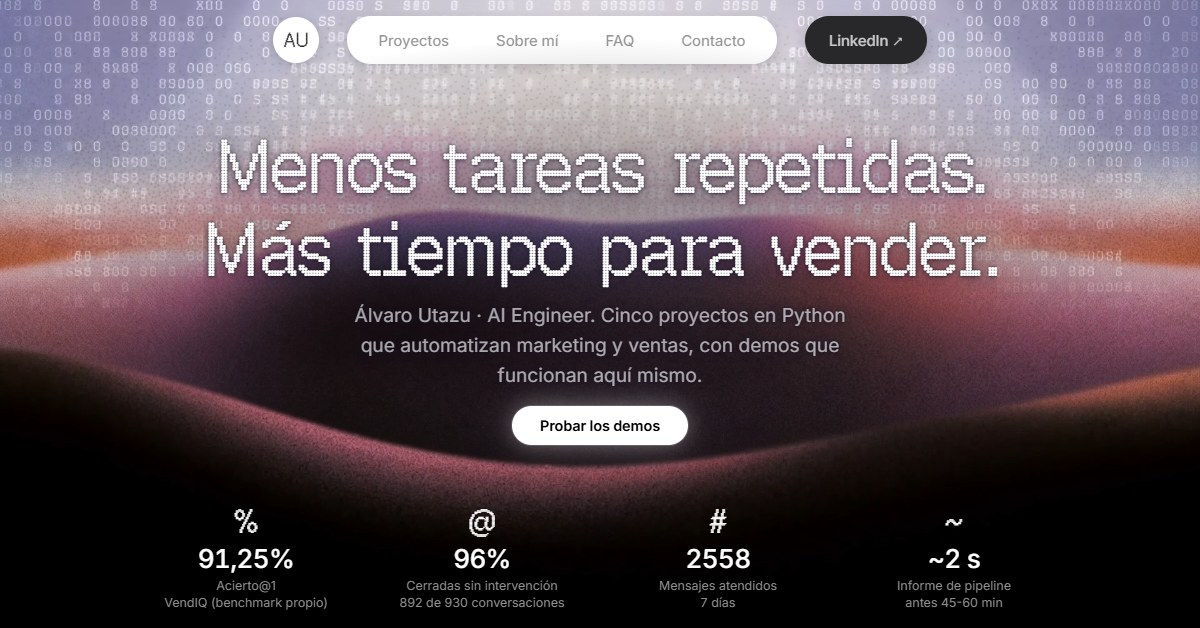
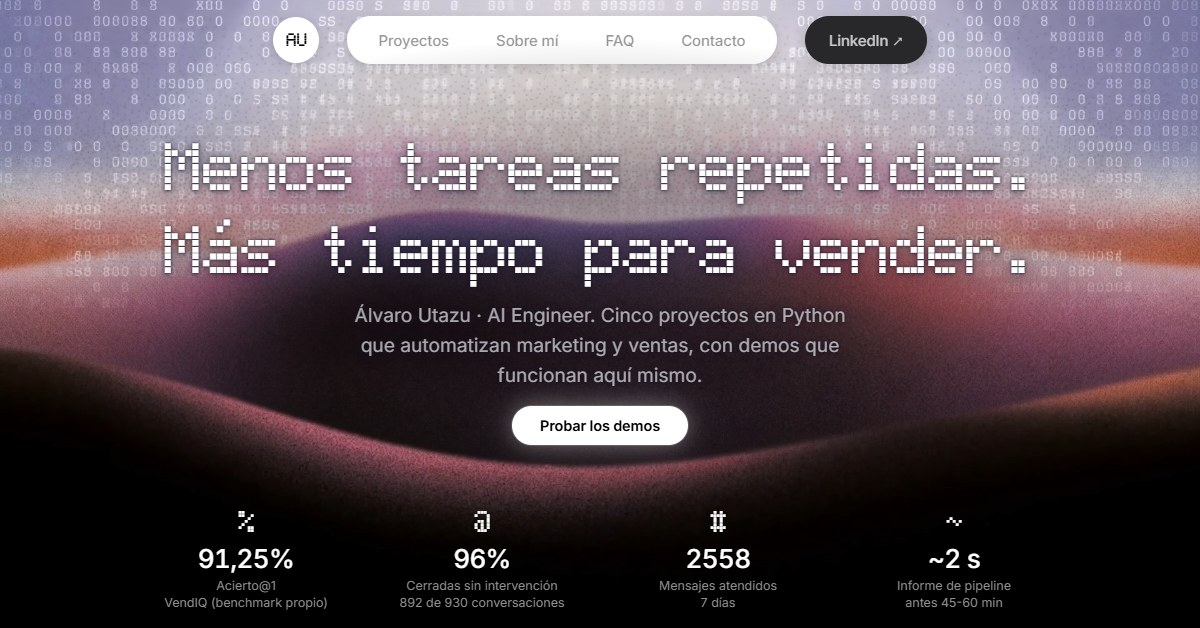
Portfolio 15-10: vuelve la letra de puntos anterior

diff --git a/index.html b/index.html
@@ -1,5 +1,5 @@
 <!DOCTYPE html>
-<!-- Portfolio de Álvaro Utazu en un solo fichero: la landing de la carpeta LANDING 11-10-2026 (versión publicada el 14-10-2026) con sus estilos, sus scripts y la letra de puntos dentro. El vídeo y las letras de texto se cargan de internet; la imagen de vista previa (vista-previa.jpg) va publicada al lado. -->
+<!-- Portfolio de Álvaro Utazu en un solo fichero: la landing de la carpeta LANDING 11-10-2026 (versión de 15-10-2026) con sus estilos, sus scripts y la letra de puntos dentro. El vídeo y las letras se cargan de internet (la de puntos lleva dentro una de respaldo); la imagen de vista previa (vista-previa.jpg) va publicada al lado. -->
 <html lang="es">
 <head>
   <meta charset="UTF-8" />
@@ -32,6 +32,10 @@
     href="https://fonts.googleapis.com/css2?family=Inter:wght@400;500;600&display=swap"
     rel="stylesheet"
   />
+  <link
+    href="https://db.onlinewebfonts.com/c/8cb707a9b8a73f8a7403336b861c3074?family=BubbledotICG-FinePos"
+    rel="stylesheet"
+  />
   <style>
 /* ==========================================================================
    Fonts
@@ -58,9 +62,7 @@
   --sign-in-text: #c8c8c8;
   --nav-shadow: 0 4px 14px rgba(0, 0, 0, 0.16);
   --font-sans: "Inter", "Segoe UI", system-ui, sans-serif;
-  /* Geist Pixel Circle only: free (SIL OFL) and served from this folder, so
-     the page does not depend on another site for its dot-matrix face */
-  --font-display: "Geist Pixel Circle", monospace;
+  --font-display: "BubbledotICG-FinePos", "Geist Pixel Circle", monospace;
 }
 
 /* ==========================================================================
@@ -749,7 +751,7 @@ body.menu-open .header {
   }
 
   .headline {
-    letter-spacing: -0.05em;
+    letter-spacing: -0.08em;
     line-height: 1.05;
   }
 
@@ -768,7 +770,7 @@ body.menu-open .header {
 
 @media (max-width: 420px) {
   .headline {
-    letter-spacing: -0.06em;
+    letter-spacing: -0.09em;
     line-height: 1.04;
   }
 }
